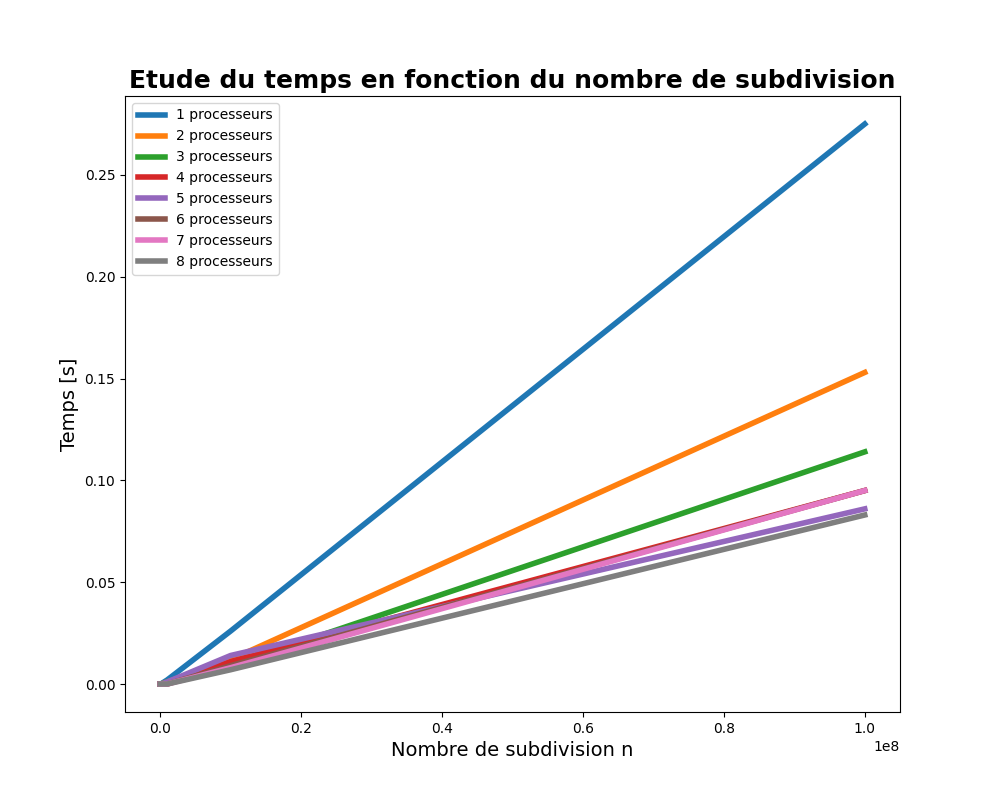
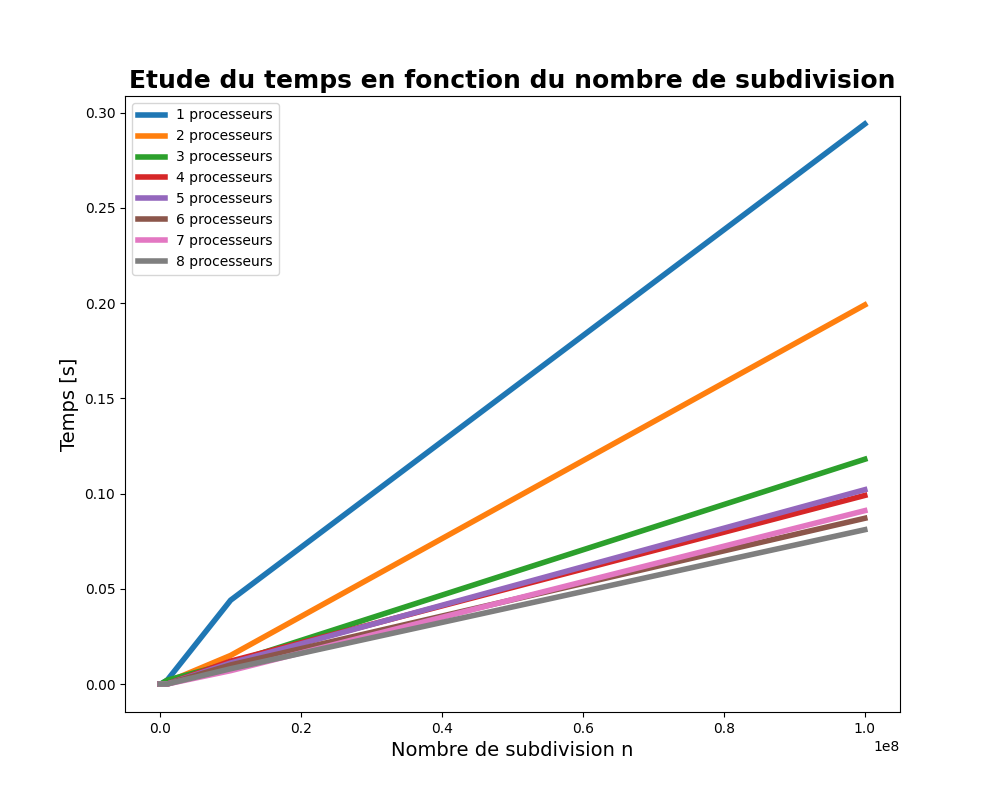
modif rk4

diff --git a/MPI/rungeKuttaMPI.cpp b/MPI/rungeKuttaMPI.cpp
@@ -43,9 +43,9 @@ void rungeKuttaHeatEquation(double alpha, std::vector<double>& u, double h, doub
         // Calcul des coefficients k1, k2, k3, k4
         for (int i = start + 1; i < end - 1; ++i) {
             double k1 = h * heatEquation(alpha, tempU, i);
-            double k2 = h * heatEquation(alpha, tempU, i);
-            double k3 = h * heatEquation(alpha, tempU, i);
-            double k4 = h * heatEquation(alpha, tempU, i);
+            double k2 = h * heatEquation(alpha, tempU, i + 0.5 * h);
+            double k3 = h * heatEquation(alpha, tempU, i + 0.5 * h);
+            double k4 = h * heatEquation(alpha, tempU, i + h);
 
             // Mise à jour de la solution
             u[i] = tempU[i] + (1.0 / 6.0) * (k1 + 2.0 * k2 + 2.0 * k3 + k4);

diff --git a/NonParallel/rungeKutta.cpp b/NonParallel/rungeKutta.cpp
@@ -26,9 +26,9 @@ void rungeKuttaHeatEquation(double alpha, std::vector<double>& u, double h, doub
         // Calcul des coefficients k1, k2, k3, k4
         for (int i = 1; i < numPoints - 1; ++i) {
             double k1 = h * heatEquation(alpha, tempU, i);
-            double k2 = h * heatEquation(alpha, tempU, i);
-            double k3 = h * heatEquation(alpha, tempU, i);
-            double k4 = h * heatEquation(alpha, tempU, i);
+            double k2 = h * heatEquation(alpha, tempU, i + 0.5 * h);
+            double k3 = h * heatEquation(alpha, tempU, i + 0.5 * h);
+            double k4 = h * heatEquation(alpha, tempU, i + h);
 
             // Mise à jour de la solution
             u[i] = tempU[i] + (1.0 / 6.0) * (k1 + 2.0 * k2 + 2.0 * k3 + k4);

diff --git a/OpenMP/rungeKuttaOpenMP.cpp b/OpenMP/rungeKuttaOpenMP.cpp
@@ -29,9 +29,9 @@ void rungeKuttaHeatEquation(double alpha, std::vector<double>& u, double h, doub
         // Calcul des coefficients k1, k2, k3, k4
         for (int i = 1; i < numPoints - 1; ++i) {
             double k1 = h * heatEquation(alpha, tempU, i);
-            double k2 = h * heatEquation(alpha, tempU, i);
-            double k3 = h * heatEquation(alpha, tempU, i);
-            double k4 = h * heatEquation(alpha, tempU, i);
+            double k2 = h * heatEquation(alpha, tempU, i + 0.5 * h);
+            double k3 = h * heatEquation(alpha, tempU, i + 0.5 * h);
+            double k4 = h * heatEquation(alpha, tempU, i + h);
 
             // Mise à jour de la solution
             u[i] = tempU[i] + (1.0 / 6.0) * (k1 + 2.0 * k2 + 2.0 * k3 + k4);

diff --git a/MPI/simpsonMPI.cpp b/MPI/simpsonMPI.cpp
@@ -62,7 +62,7 @@ int main(int argc, char** argv) {
     if(rank == 0){
         std::string filename = "../Results/simp_MPI_nbProc_" + std::to_string(size) + ".txt";
         double exact = M_PI;
-        double error = abs(exact - result);
+        double error = std::abs(exact - result);
 
         // Ouvrir le fichier en mode écriture
         std::ofstream outFile(filename, std::ios_base::app);
